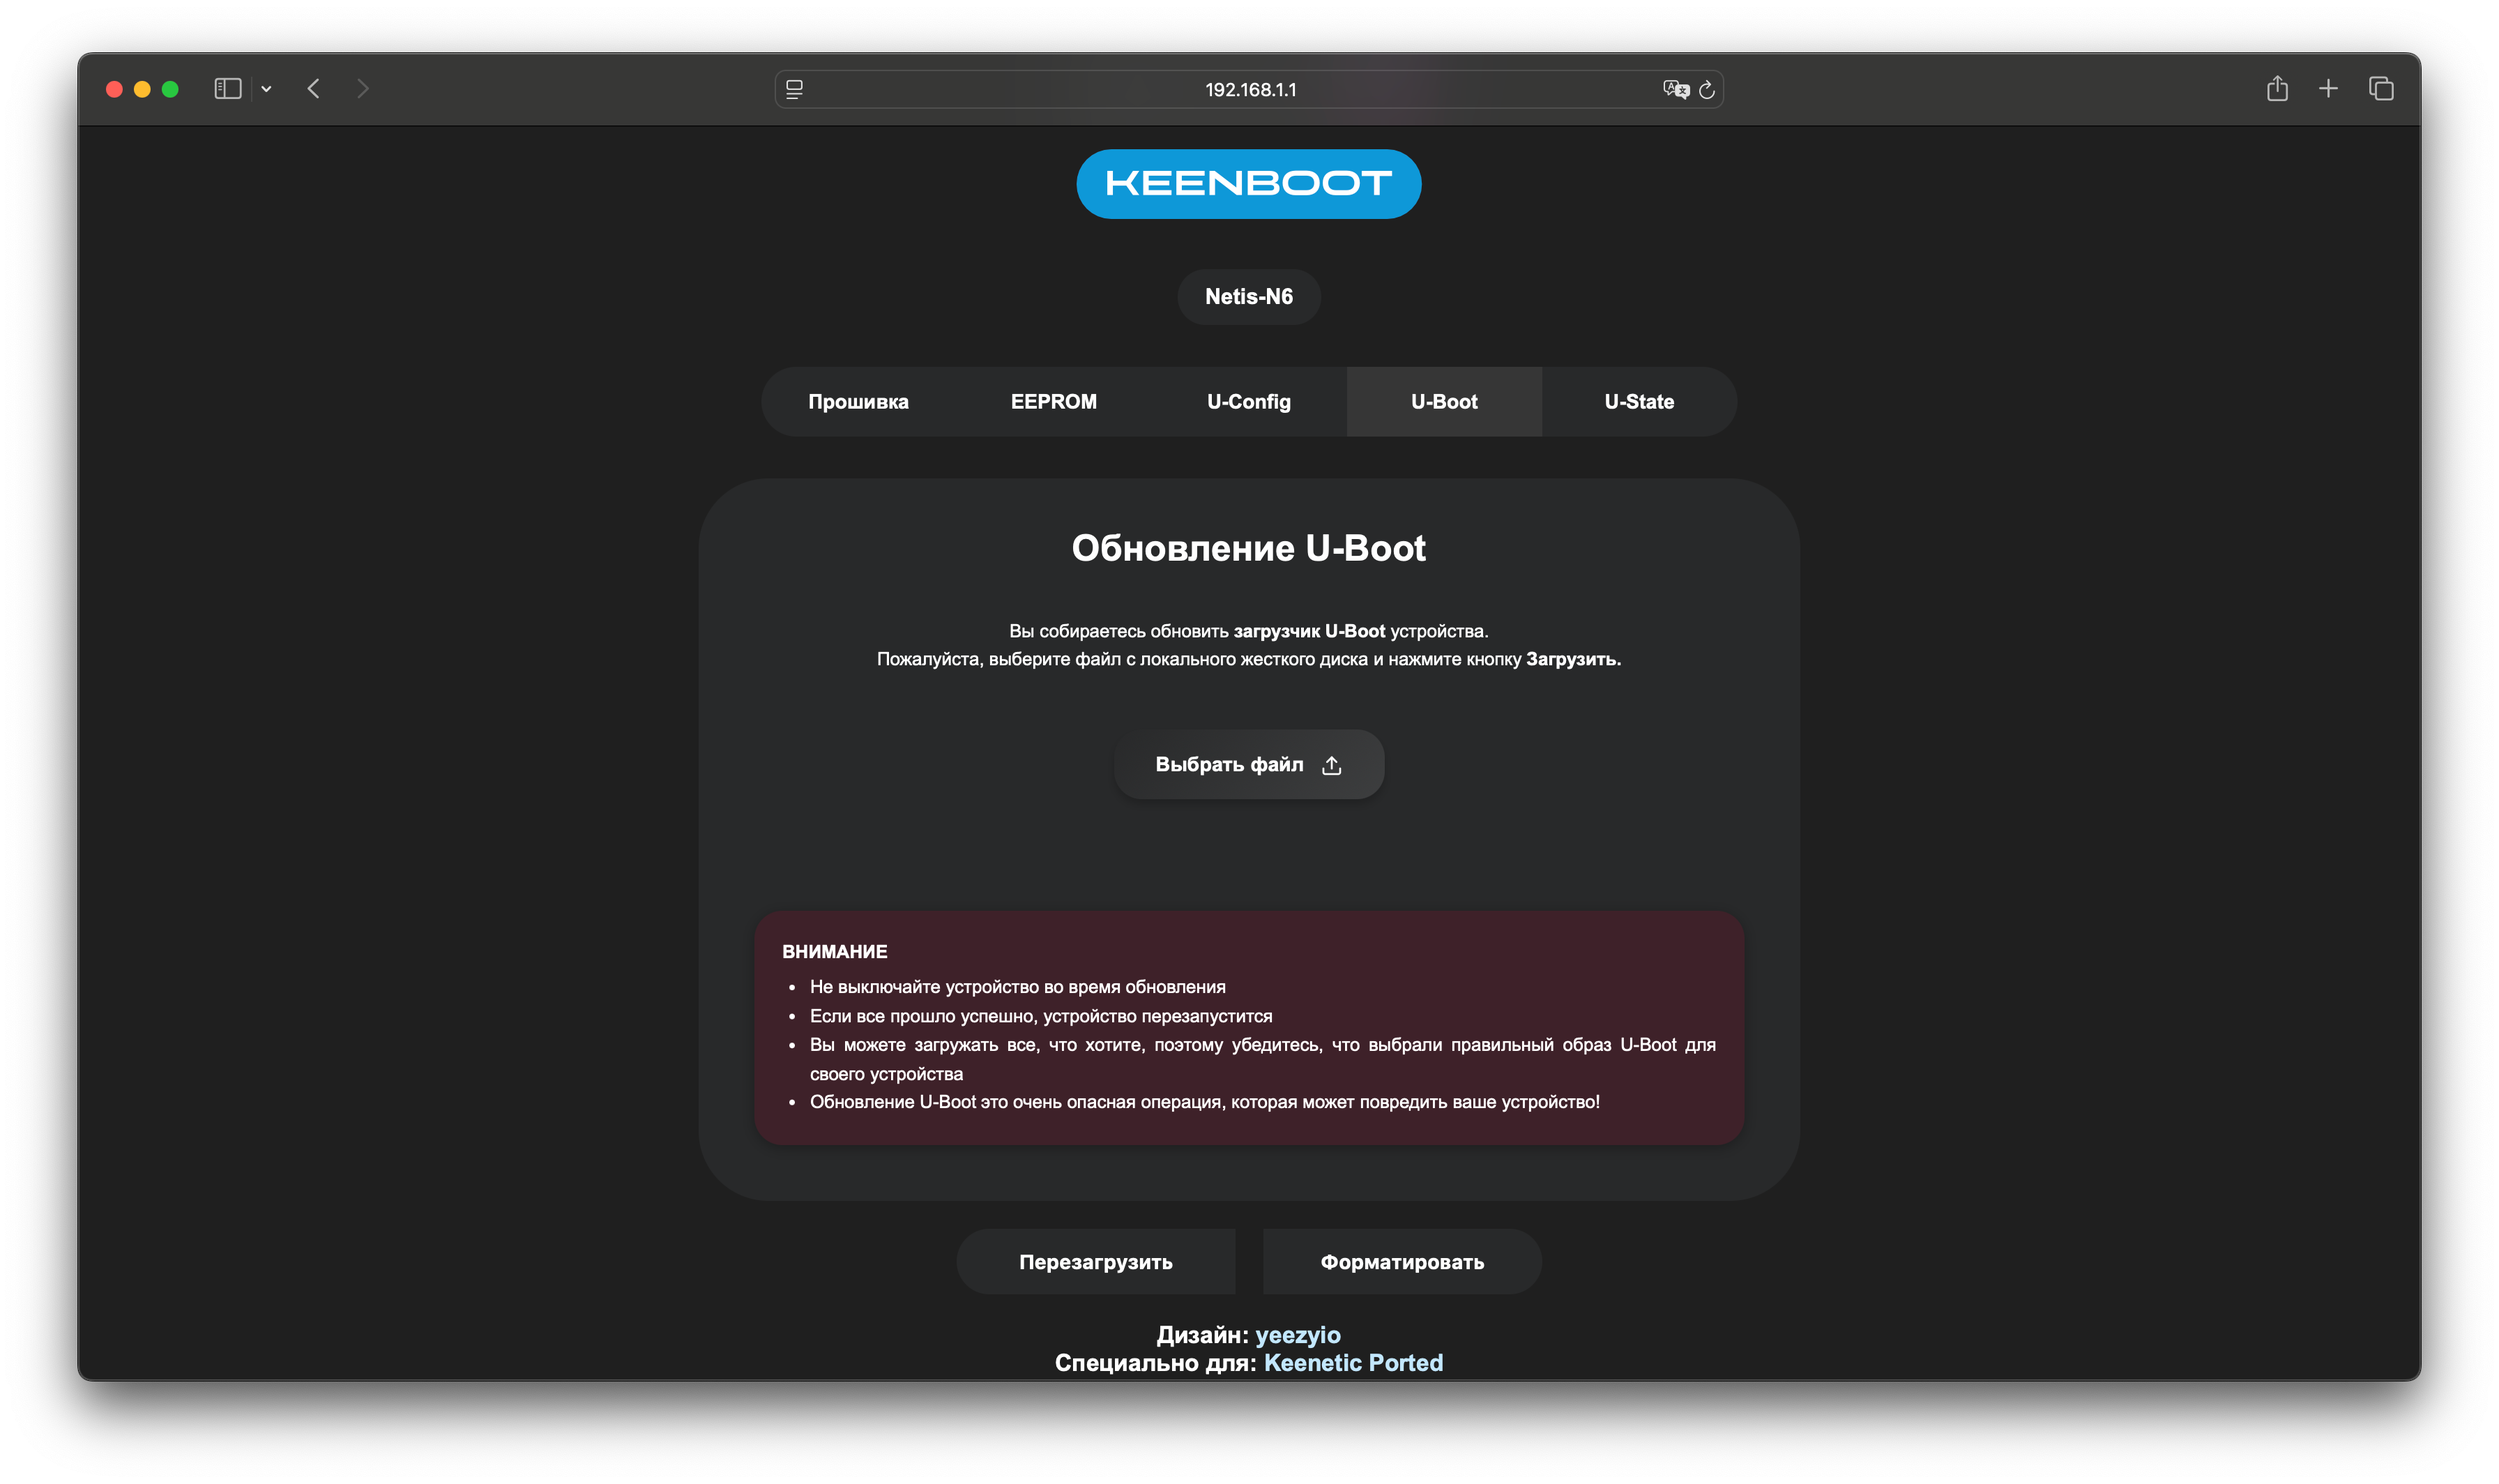
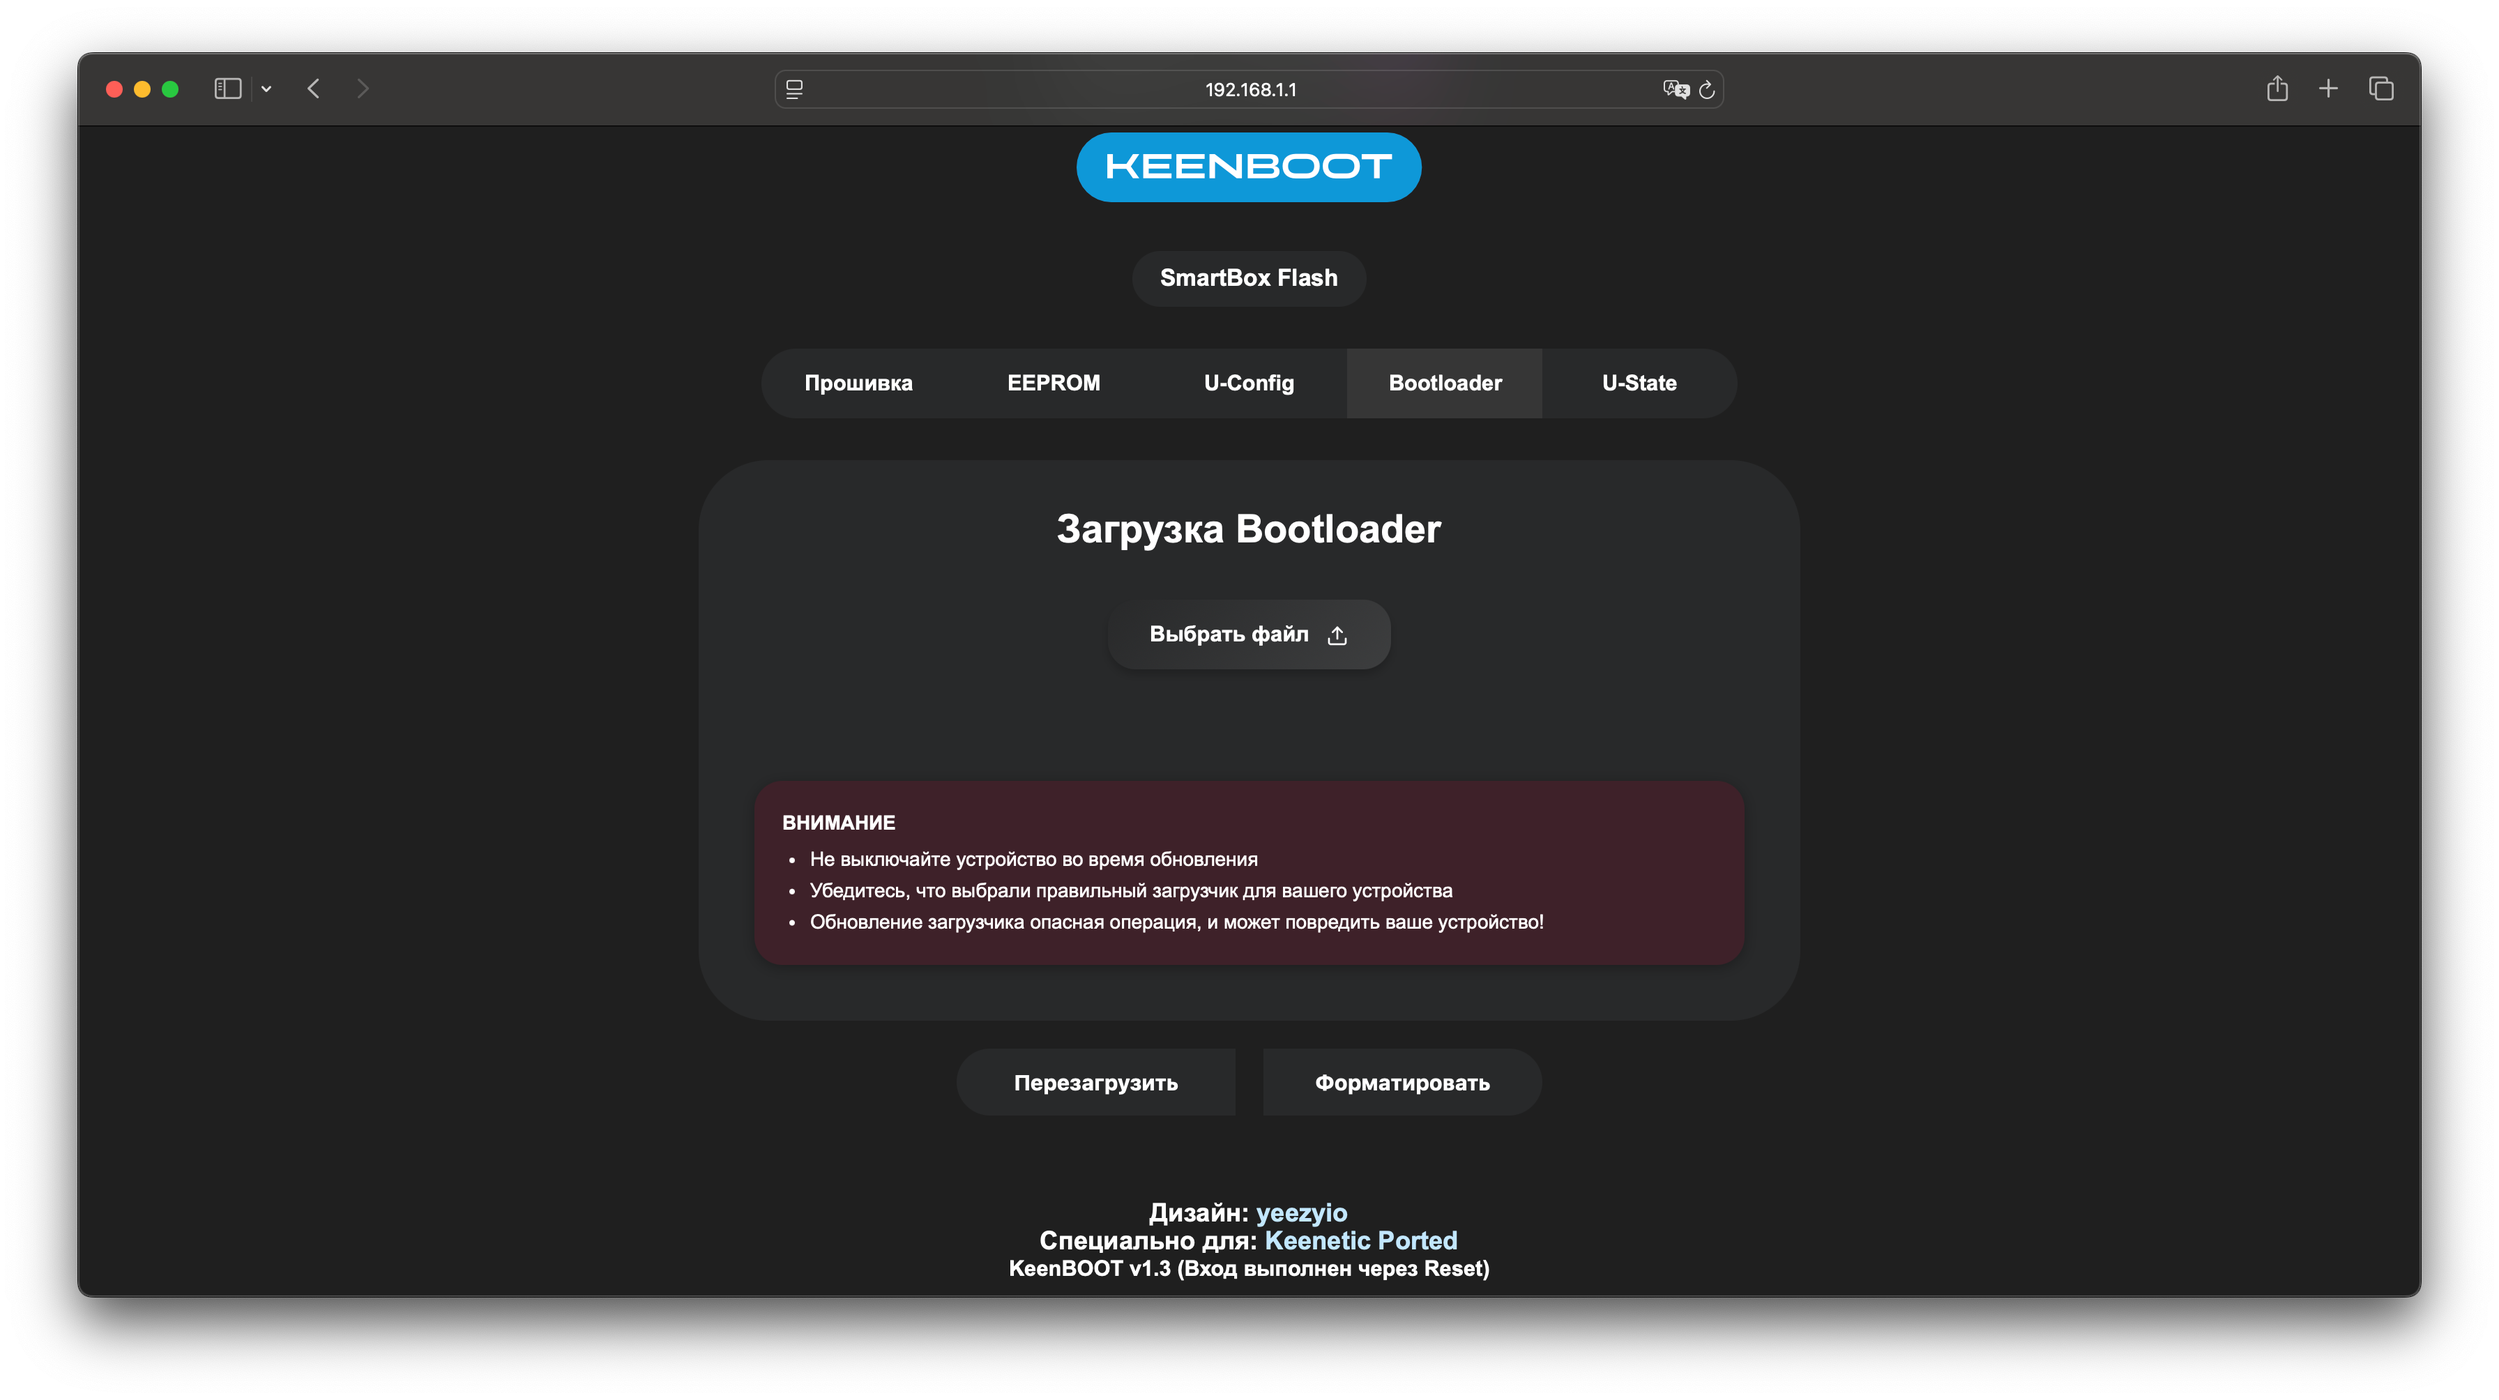
update text

diff --git a/wiki/helpful/updateFirmware.md b/wiki/helpful/updateFirmware.md
@@ -8,7 +8,14 @@
 
 ![альтернативный текст](/assets/images/wiki/helpful/keenkit/update-firmware.png){width=500px height=100px}
 
-### Способ #2 <Badge type="keenetic" text="Ручной" />
+### Способ #2 <Badge type="keenetic" text="Через KeenBOOT" />
+
+1. Выполнить [вход в загрузчик](/wiki/helpful/keenboot#%D0%B2%D1%85%D0%BE%D0%B4-%D0%B2-%D0%B7%D0%B0%D0%B3%D1%80%D1%83%D0%B7%D1%87%D0%B8%D0%BA)
+2. Загрузить обновление поверх через веб-интерфейс
+
+![альтернативный текст](/assets/images/wiki/helpful/keenboot/main.png)
+
+### Способ #3 <Badge type="keenetic" text="Ручной" />
 
 1. Поместите файл обновления на встроенный/внешний накопитель с установленной [Entware](/wiki/helpful/entware)
 2. Через `Telnet/SSH` попасть в Entware
@@ -36,7 +43,7 @@ reboot
 :::
 ![альтернативный текст](/assets/images/wiki/helpful/updateFirmware/manualUpdate.png)
 
-### Способ #3 <Badge type="keenetic" text="Через Breed" />
+### Способ #4 <Badge type="keenetic" text="Через Breed" />
 
 ::: danger ВНИМАНИЕ
 Данный способ при невнимательности может окирпичить роутер, внимательно следуйте командам

diff --git a/wiki/guides/xiaomi-4AG.md b/wiki/guides/xiaomi-4AG.md
@@ -1,7 +1,7 @@
 # Xiaomi Router 4A Gigabit Edition v1 <YezBadgeWithDropdown type="keenetic" text="4.2.5" url="/assets/files/firmware/Xiaomi-4AGv1-4.2.5.7z" :versions="[{ text: '4.1.7', url: '/assets/files/firmware/Xiaomi-4AGv1-4.1.7.7z' }]"/>
 
-::: warning **Статус устройства - EoD**
-**End of Development** — обновление системы возможно только при наличии свободного времени и острой необходимости
+::: warning **Статус устройства: EoL**
+**End of Life** — прекращение портирования операционной системы для этой модели, последняя релизная версия
 :::
 
 ![альтернативный текст](/assets/images/wiki/guides/Xiaomi/4AG.png)

diff --git a/wiki/guides/mtc-wg430223.md b/wiki/guides/mtc-wg430223.md
@@ -1,7 +1,7 @@
 # MTC WG430223 <YezBadgeWithDropdown type="keenetic" text="4.2.5" url="/assets/files/firmware/MTC-WG430223-4.2.5.7z" :versions="[{ text: '4.1.7', url: '/assets/files/firmware/MTC-WG430223-4.1.7.7z' }]"/>
 
 ::: warning **Статус устройства - EoD**
-**End of Development** — обновление системы возможно только при наличии свободного времени и острой необходимости
+**End of Development** — обновление системы возможно только при наличии свободного времени и желания
 :::
 
 ![альтернативный текст](/assets/images/wiki/guides/SmartBox/wg430223.png){width=400px height=100px}

diff --git a/wiki/guides/xiaomi-3P.md b/wiki/guides/xiaomi-3P.md
@@ -1,7 +1,7 @@
 # Xiaomi Router 3P <YezBadge type="keenetic" text="4.2.6.3" url="/assets/files/firmware/Xiaomi-R3P.7z"/>
 
-::: warning **Статус устройства - EoD**
-**End of Development** — обновление системы возможно только при наличии свободного времени и острой необходимости
+::: warning **Статус устройства: EoD**
+**End of Development** — обновление системы возможно только при наличии свободного времени и желания
 :::
 
 ![альтернативный текст](/assets/images/wiki/guides/Xiaomi/3P.png){width=500px height=100px}

diff --git a/wiki/guides/xiaomi-4.md b/wiki/guides/xiaomi-4.md
@@ -1,7 +1,7 @@
 # Xiaomi Router 4 <YezBadge type="keenetic" text="4.2.5" url="/assets/files/firmware/Xiaomi-4.7z"/>
 
-::: warning **Статус устройства - EoD**
-**End of Development** — обновление системы возможно только при наличии свободного времени и острой необходимости
+::: warning **Статус устройства: EoD**
+**End of Development** — обновление системы возможно только при наличии свободного времени и желания
 :::
 
 ![альтернативный текст](/assets/images/wiki/guides/Xiaomi/xiaomi4.jpg)

diff --git a/wiki/guides/TP-Link-EC330-G5u.md b/wiki/guides/TP-Link-EC330-G5u.md
@@ -1,6 +1,6 @@
 # TP-Link EC330-G5u <BoostyBadge type="keenetic" text="4.3.2" url="/wiki/helpful/boosty"/> <YezBadgeWithDropdown type="keenetic" text="4.2.6" url="/assets/files/firmware/TP-Link-EC330.7z" :versions="[{ text: '4.1.7', url: '/assets/files/firmware/TP-Link-EC330-4.1.7.7z' }]"/>
 
-::: warning **Статус устройства - EoD**
+::: warning **Статус устройства: EoD**
 **End of Development** — обновление системы возможно только при наличии свободного времени и острой необходимости
 :::
 

diff --git a/wiki/guides/mercusys-mr70x.md b/wiki/guides/mercusys-mr70x.md
@@ -1,6 +1,6 @@
 # Mercusys MR70X v1 <YezBadgeWithDropdown type="keenetic" text="4.2.5" url="/assets/files/firmware/Mercusys-MR70X-4.2.5.7z" :versions="[{ text: '4.1.7', url: '/assets/files/firmware/Mercusys-MR70X.7z' }]"/>
 
-::: warning **Статус устройства - EoD**
+::: warning **Статус устройства: EoD**
 **End of Development** — обновление системы возможно только при наличии свободного времени и желания
 :::
 

diff --git a/wiki/helpful/keenboot.md b/wiki/helpful/keenboot.md
@@ -62,5 +62,5 @@
 
 ## Обновление/Смена загрузчика
 
-Перейдите в раздел `Bootloader`, выберите файл загрузчика и нажмите `Загрузить`
+Перейдите в раздел `Bootloader`, выберите файл нужного вам загрузчика и нажмите `Обновить`
 ![альтернативный текст](/assets/images/wiki/helpful/keenboot/update.png)

diff --git a/wiki/guides/archerc6u.md b/wiki/guides/archerc6u.md
@@ -1,6 +1,6 @@
 # TP-Link Archer C6U v1 <YezBadge type="keenetic" text="4.2.2" url="/assets/files/firmware/TP-Link-C6U.7z" />
 
-::: warning **Статус устройства - EoD**
+::: warning **Статус устройства: EoD**
 **End of Development** — обновление системы возможно только при наличии свободного времени и острой необходимости
 :::
 

diff --git a/wiki/helpful/components.md b/wiki/helpful/components.md
@@ -53,7 +53,6 @@
 - Прокси-сервер UDP-HTTP (udpxy)
 - Клиент динамической службы DNS (DDNS)
 - Сервер SNMP
-- Captive portal
 - Захват сетевых пакетов
 - Прокси-сервер DNS-over-TLS
 - Прокси-сервер DNS-over-HTTPS
